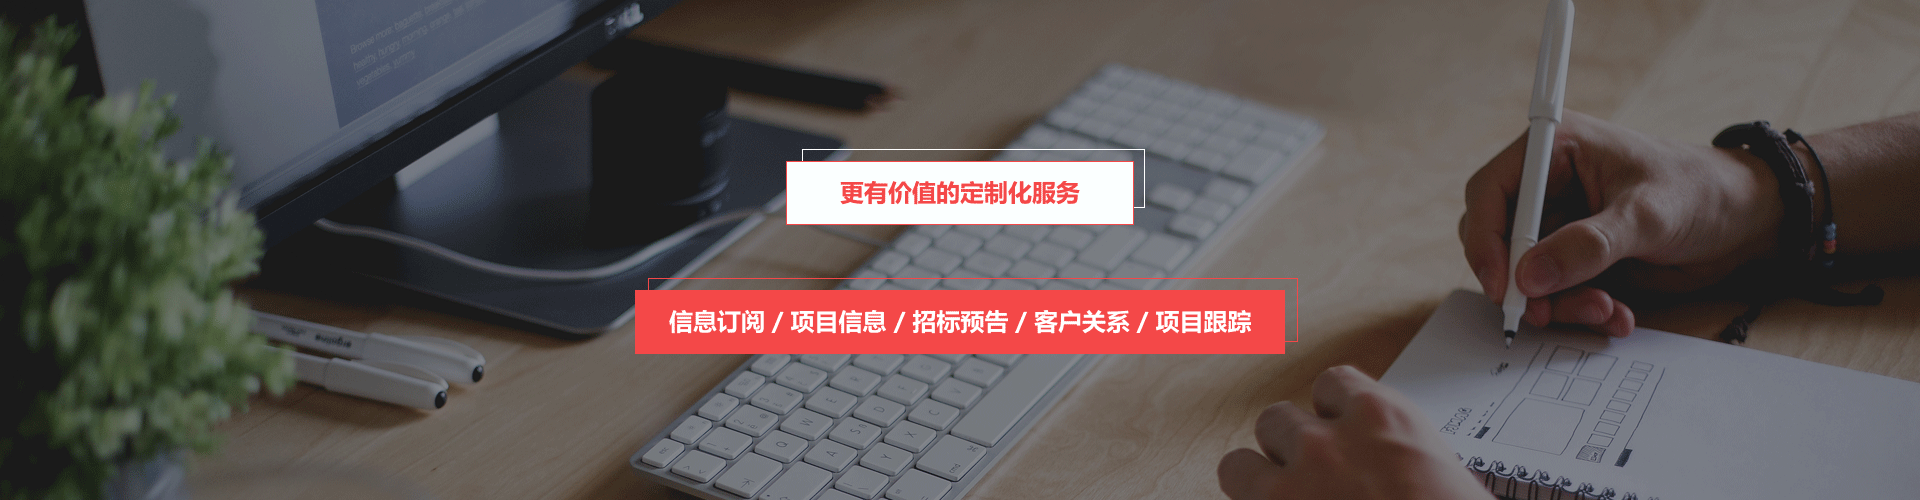
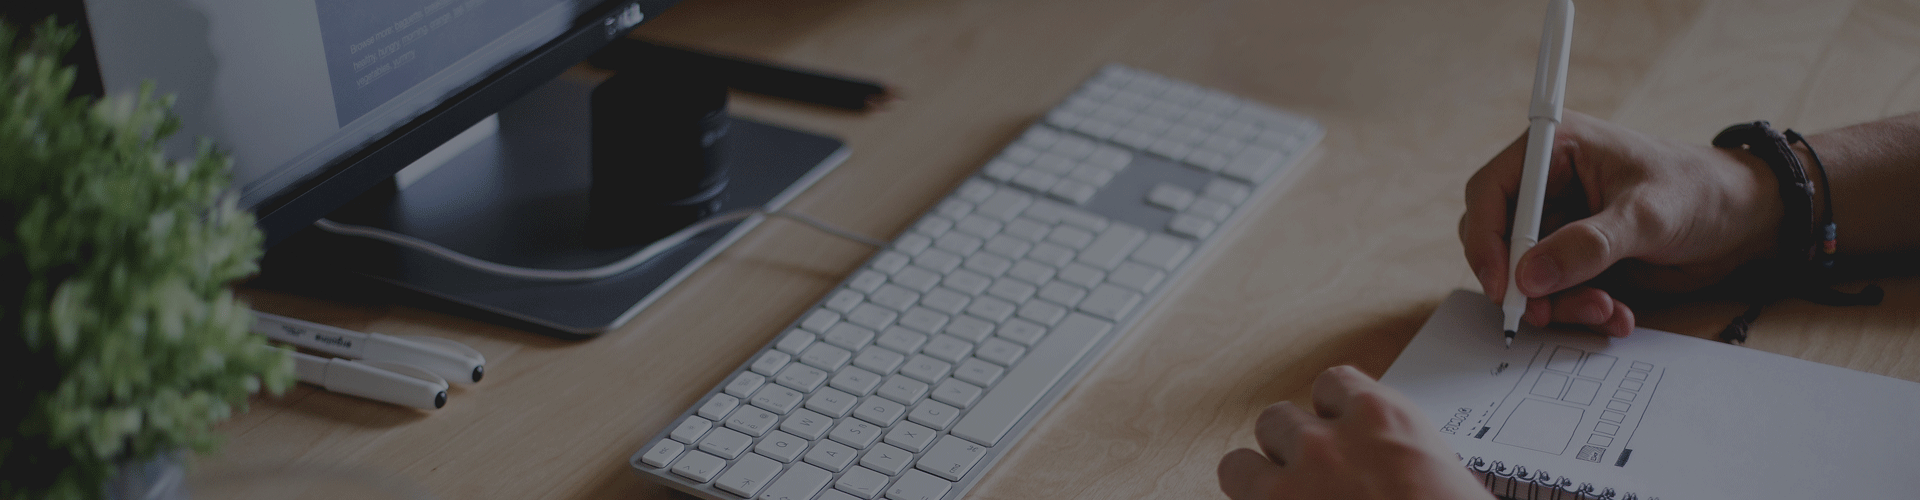
修改供应商个性化页面

Changed region(s): [[0.3125, 0.57, 0.6875, 0.72], [0.4062, 0.3, 0.5938, 0.45]]

diff --git a/gongyingshang--gexinghua/css/style.css b/gongyingshang--gexinghua/css/style.css
@@ -75,13 +75,12 @@
 }
 .cf-title-s{
     color: #ffffff;
-    font-size: 18px;
+    font-size: 16px;
     margin-top: 20px;
     font-weight: bold;
 }
 .con-form span{
     display: block;
-    width: auto;
     width: 72px;
     margin-left: 30px;
     height: 40px;
@@ -109,7 +108,7 @@
     margin-left: 36px !important;
 }
 .telephone{
-    margin-left: 20px !important;
+    margin-left: 30px !important;
 }
 .con-form div ul{
     width: 417px;
@@ -140,10 +139,23 @@
     margin-left: 5px;
 }
 .busDescription{
-    width: 400px;
-    height: 100px;
+    width: 390px;
+    height: 90px;
     margin-left: 20px;
     resize: none;
+    padding: 5px;
+}
+.busDescription::-webkit-input-placeholder{
+    padding-top: 10px;
+    padding-left: 10px;
+}
+.busDescription::-moz-placeholder{
+    padding-top: 10px;
+    padding-left: 10px;
+}
+.busDescription:-ms-input-placeholder{
+    padding-top: 10px;
+    padding-left: 10px;
 }
 .aSubmit{
     display: block;
@@ -203,6 +215,7 @@
     top: -40px;
 }
 .cityCheck select{
+    margin-left: 10px;
     float: left;
     padding: 6px 0;
 }
@@ -228,6 +241,7 @@
     color: #ffffff;
     font-size: 17px;
     margin-left: 17px;
+    line-height: 22px;
 }
 .wxShow{
     width: 540px;
@@ -316,6 +330,12 @@
     height: 500px;
     background: url("../img/vcs1.png") no-repeat;
     background-size: 100% 100%;
+    overflow: hidden;
+}
+.valCustomService .img{
+    width: 663px;
+    height: 205px;
+    margin: 147.5px auto;
 }
 /*有价值的定制服务 end*/
 /*信息订阅 start*/

diff --git a/gongyingshang--gexinghua/index.html b/gongyingshang--gexinghua/index.html
@@ -131,7 +131,7 @@
                             <img src="img/cs1.png">
                             <div>
                                 <p class="csT1">信息订阅</p>
-                                <p class="csT2">让您随时谁地掌握最新采购信息</p>
+                                <p class="csT2">让您随时随地掌握最新采购信息</p>
                             </div>
                         </li>
                         <li style="width: 166px;margin-left: 94px">
@@ -176,7 +176,7 @@
                                 <p class="csT2">采购单位查询供应商信息重要入口帮您获得更多业主关注</p>
                             </div>
                         </li>
-                        <li style="width: 126px;margin-left: 70px">
+                        <li style="width: 126px;margin-left: 20px">
                             <img src="img/cs8.png">
                             <div>
                                 <p class="csT1">品牌推广</p>
@@ -190,7 +190,7 @@
         <!--VIP定制服务 end-->
         <!--有价值的定制服务 start-->
         <div class="valCustomService">
-          <!--<img src="img/vcs1.png">-->
+          <div class="img"><img src="img/vsc2.png"></div>
         </div>
         <!--有价值的定制服务 end-->
         <!--信息订阅 start-->
